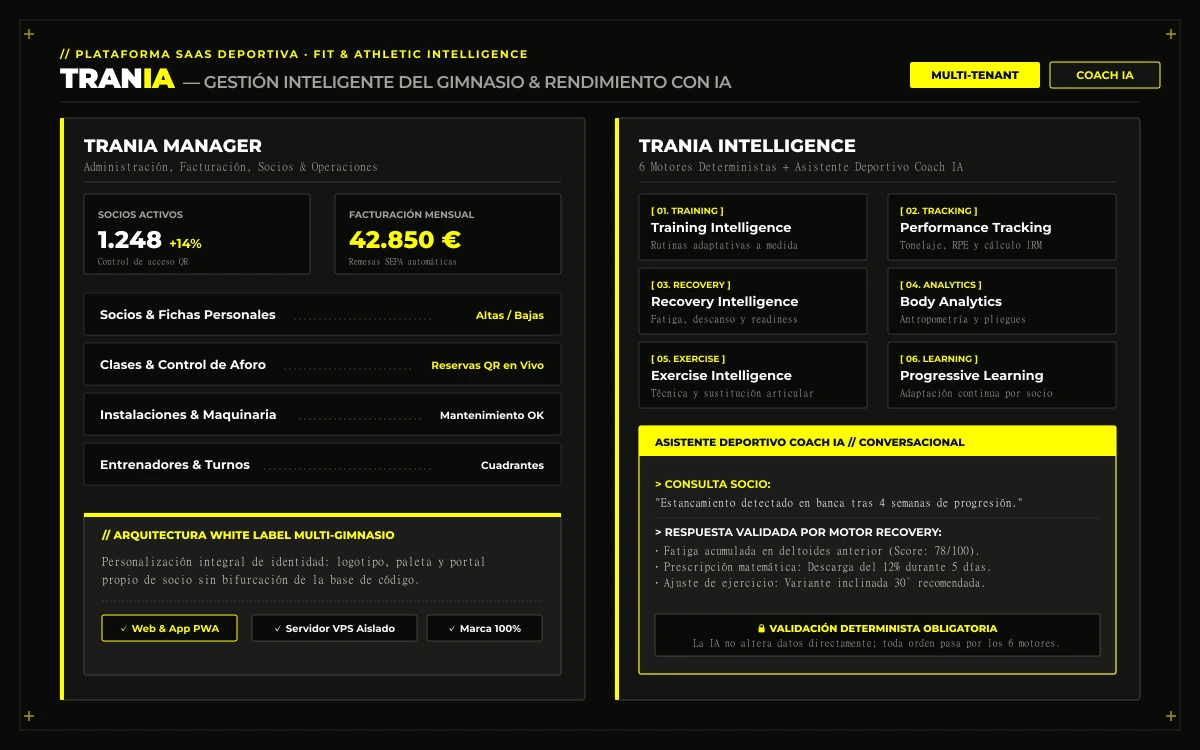
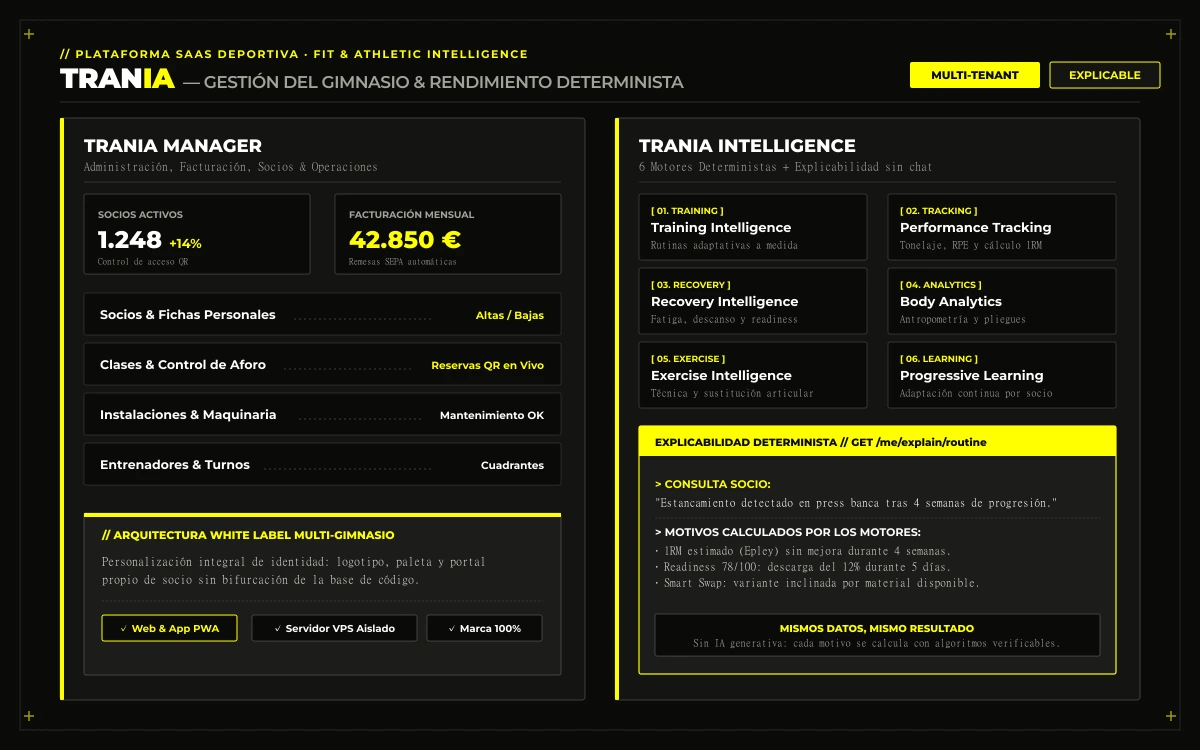
feat(trania): calculadora de ahorro, ficha con importación y plan Solo; gráfico sin Coach IA
- Calculadora de ahorro en la ficha de TranIA (precios alineados con plans_config)
- Ficha: importación CSV (Glofox, Mindbody, Excel) y plan Solo
- Esquema y preview regenerados: explicabilidad determinista en lugar de Coach IA

diff --git a/src/content/projectes-es/trania.md b/src/content/projectes-es/trania.md
@@ -46,6 +46,7 @@ El módulo de administración proporciona a propietarios, gerentes y coordinador
 
 ### Socios y clientes
 - **Registro y altas/bajas:** Fichas personales con historial de actividad, contratos y estado administrativo.
+- **Importación desde otras plataformas:** Carga de socios y pagos históricos desde CSV exportados de Glofox, Mindbody o Excel, sin duplicar socios con el mismo email.
 - **Control de accesos:** Validación de entradas mediante lectura de **código QR dinámico** desde el móvil del socio, con rotación del código bajo demanda.
 - **Membresías y renovaciones:** Gestión del ciclo de vida de cuotas, caducidades y asignación de entrenadores.
 - **Monitorización de asistencia:** Registro de entradas al centro y frecuencia de uso.
@@ -154,6 +155,7 @@ Líneas de desarrollo previstas, todavía no disponibles:
 - **TranIA Estándar:** Acceso con la identidad visual de TranIA.
 - **TranIA Personalizada (White Label):** Identidad del gimnasio en web y aplicación móvil.
 - **Planes:**
+  - **Solo (35 €/mes):** para entrenadores personales. Hasta 30 clientes y 1 entrenador, con motores de entrenamiento y sin módulos de gestión de gimnasio.
   - **Free:** hasta 50 socios y 2 entrenadores, gestión esencial.
   - **Pro:** hasta 250 socios y 10 entrenadores, inteligencia deportiva, seguimiento y bienestar.
   - **Elite:** socios y entrenadores ilimitados, analítica avanzada.

diff --git a/src/content/projectes-en/trania.md b/src/content/projectes-en/trania.md
@@ -46,6 +46,7 @@ The administrative module gives owners, managers and coordinators full control o
 
 ### Members & Clients
 - **Registration & lifecycle:** Individual profiles with activity history, contracts and administrative status.
+- **Import from other platforms:** Load members and historical payments from CSV exports of Glofox, Mindbody or Excel, without duplicating members with the same email.
 - **Access control:** Entrance validation by scanning a **dynamic QR code** on the member's phone, with on-demand code rotation.
 - **Memberships & renewals:** Management of dues, expiry dates and trainer assignment.
 - **Attendance tracking:** Check-in logging and visit frequency.
@@ -154,6 +155,7 @@ Planned development lines, not yet available:
 - **TranIA Standard:** Uses TranIA's visual identity.
 - **TranIA Custom (White Label):** Gym's own identity across web and mobile.
 - **Plans:**
+  - **Solo (35 €/month):** for personal trainers. Up to 30 clients and 1 trainer, with training engines and without gym-management modules.
   - **Free:** up to 50 members and 2 trainers, essential management.
   - **Pro:** up to 250 members and 10 trainers, sports intelligence, tracking and wellness.
   - **Elite:** unlimited members and trainers, advanced analytics.
